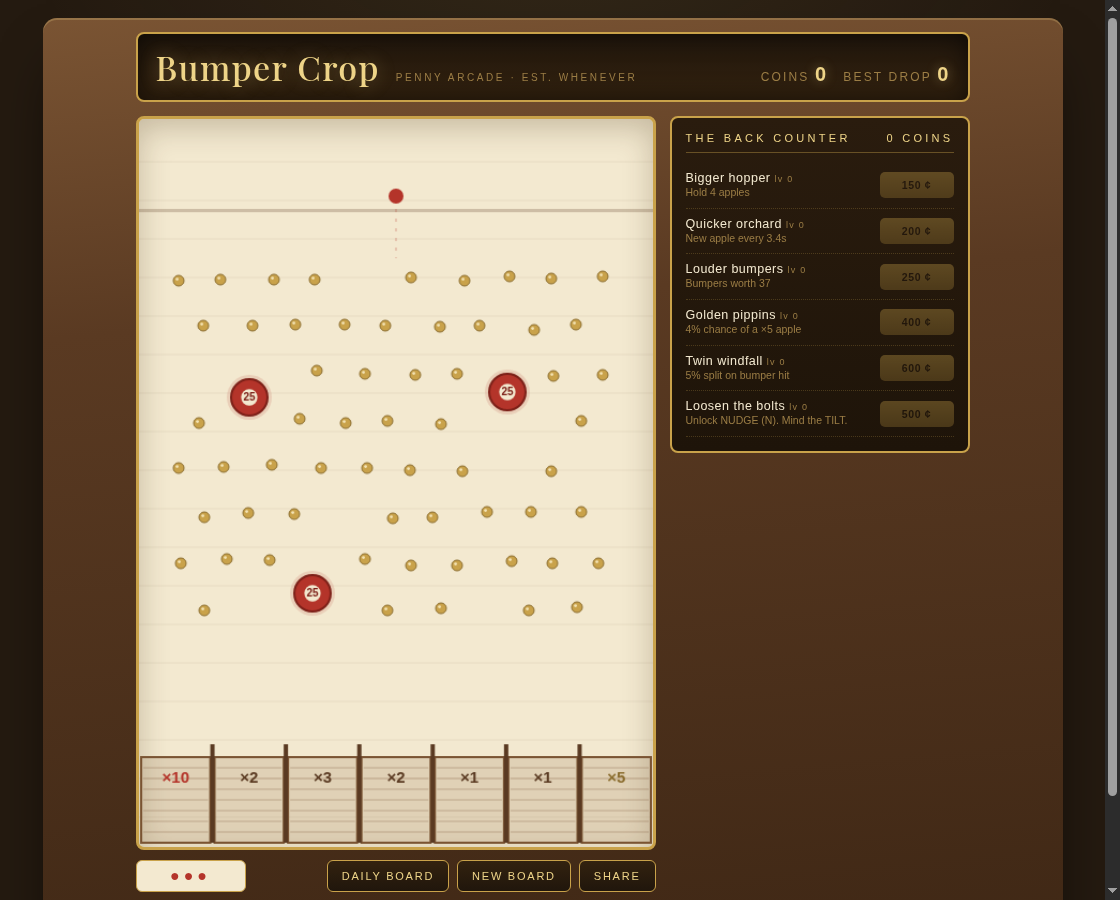
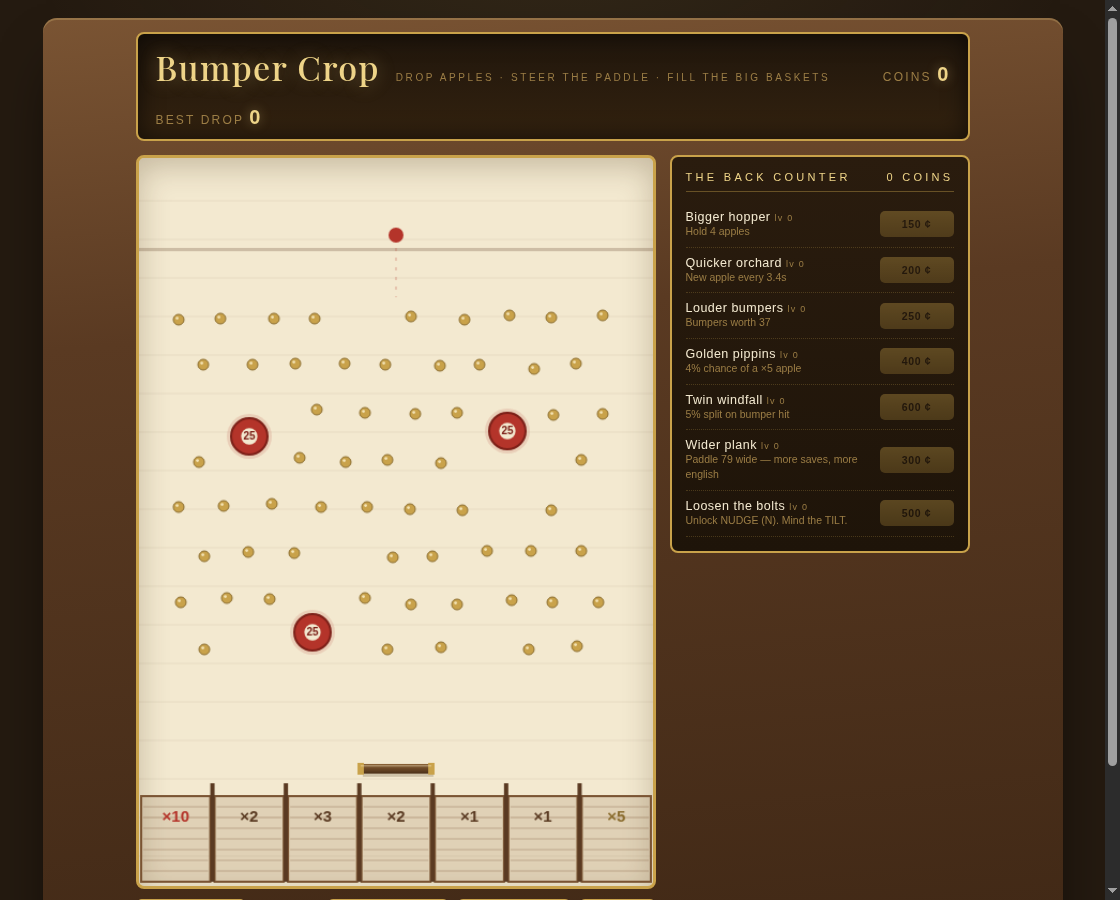
Add the paddle: mouse-tracked plank above the baskets
Bounce falling apples toward the basket you want; off-center hits add
english. Bounces lose energy and gentle balls roll through, so juggling
always ends (worst-case settle verified at 5s with the widest plank).
New shop upgrade: Wider plank.

diff --git a/index.html b/index.html
@@ -166,7 +166,7 @@
 <div class="cab" id="cab">
   <div class="marquee">
     <h1>Bumper Crop</h1>
-    <span class="tag">Penny Arcade · Est. Whenever</span>
+    <span class="tag">Drop apples · steer the paddle · fill the big baskets</span>
     <span class="spacer"></span>
     <span class="lcd">Coins <b id="lcd-coins">0</b></span>
     <span class="lcd">Best drop <b id="lcd-best">0</b></span>
@@ -320,8 +320,12 @@ function buildBoard(seed){
 /* ================= game state (global, persists across boards) ================= */
 const DEFAULT_SAVE = {
   coins: 0, best: 0, muted: false,
-  up: { hopper: 0, regen: 0, bumper: 0, gold: 0, split: 0, nudge: 0 }
+  up: { hopper: 0, regen: 0, bumper: 0, gold: 0, split: 0, nudge: 0, paddle: 0 }
 };
+/* the paddle: rides above the baskets, follows the mouse */
+const PAD_Y = 566, PAD_H = 9;
+let padX = W / 2;
+function padW(){ return 66 + 13 * S.up.paddle; }
 let S = null;      /* save */
 let balls = [];
 let hopper = 3;
@@ -362,6 +366,9 @@ function step(dt){
   }
   /* tilt heat cools */
   tiltHeat = Math.max(0, tiltHeat - dt * 0.28);
+
+  /* the paddle chases the mouse */
+  padX += (Math.max(BALL_R + 4, Math.min(W - BALL_R - 4, aimX)) - padX) * Math.min(1, dt * 18);
 
   for (const b of balls){
     if (b.dead) continue;
@@ -419,6 +426,18 @@ function step(dt){
         }
       }
     }
+    /* the paddle: catches falling apples, adds english toward its edges.
+       gentle balls roll through — no infinite tennis */
+    if (b.vy > 150 && !tilted() &&
+        b.y + BALL_R > PAD_Y && b.y < PAD_Y + PAD_H + BALL_R &&
+        Math.abs(b.x - padX) < padW() / 2 + BALL_R * 0.6){
+      b.y = PAD_Y - BALL_R;
+      b.vy = -b.vy * 0.82;
+      b.vx += ((b.x - padX) / (padW() / 2)) * 230;
+      b.vx = Math.max(-620, Math.min(620, b.vx));
+      SFX.peg();
+    }
+
     /* basket dividers: simple vertical walls from SLOT_TOP down */
     if (b.y > SLOT_TOP - BALL_R){
       const k = Math.round(b.x / SLOT_W);
@@ -558,6 +577,20 @@ function draw(){
   cx.fillStyle = '#5a3a22';
   for (let i = 1; i < SLOT_N; i++) cx.fillRect(i * SLOT_W - 2, SLOT_TOP - 12, 4, H - SLOT_TOP + 8);
 
+  /* the paddle: a polished plank with brass caps */
+  const pw = padW();
+  cx.fillStyle = 'rgba(60,40,10,.2)';
+  cx.fillRect(padX - pw / 2 + 2, PAD_Y + 3, pw, PAD_H);
+  const grad = cx.createLinearGradient(0, PAD_Y, 0, PAD_Y + PAD_H);
+  grad.addColorStop(0, '#8a6236'); grad.addColorStop(0.5, '#6b4826'); grad.addColorStop(1, '#4a3018');
+  cx.fillStyle = grad;
+  cx.fillRect(padX - pw / 2, PAD_Y, pw, PAD_H);
+  cx.fillStyle = '#c9a24a';
+  cx.fillRect(padX - pw / 2 - 3, PAD_Y - 1, 6, PAD_H + 2);
+  cx.fillRect(padX + pw / 2 - 3, PAD_Y - 1, 6, PAD_H + 2);
+  cx.fillStyle = 'rgba(255,240,210,.35)';
+  cx.fillRect(padX - pw / 2, PAD_Y + 1, pw, 1.5);
+
   /* balls: apples (or golden pippins) */
   for (const b of balls){
     cx.beginPath(); cx.arc(b.x, b.y + 2, BALL_R, 0, 7);
@@ -609,6 +642,7 @@ const SHOP = [
   { k: 'bumper', nm: 'Louder bumpers', ds: () => 'Bumpers worth ' + (25 + 12 * (S.up.bumper + 1)), base: 250, x: 1.7 },
   { k: 'gold', nm: 'Golden pippins', ds: () => (4 * (S.up.gold + 1)) + '% chance of a ×5 apple', base: 400, x: 1.8, max: 10 },
   { k: 'split', nm: 'Twin windfall', ds: () => (5 * (S.up.split + 1)) + '% split on bumper hit', base: 600, x: 1.9, max: 8 },
+  { k: 'paddle', nm: 'Wider plank', ds: () => 'Paddle ' + (66 + 13 * (S.up.paddle + 1)) + ' wide — more saves, more english', base: 300, x: 1.7, max: 6 },
   { k: 'nudge', nm: 'Loosen the bolts', ds: () => S.up.nudge ? 'Nudge is yours. Mind the TILT.' : 'Unlock NUDGE (N). Mind the TILT.', base: 500, x: 1, max: 1 }
 ];
 function cost(it){ return Math.round(it.base * Math.pow(it.x, S.up[it.k])); }

diff --git a/README.md b/README.md
@@ -10,10 +10,13 @@ offline, saves your coins and upgrades in the browser.
 ## The loop
 
 - Aim with the mouse (or ←/→), drop with click / tap / space
+- **The paddle follows your mouse** — after the drop, chase the apple and
+  bounce it toward the basket you want; hitting off-center adds english.
+  Gentle balls roll through, so juggling always ends in a basket
 - Pegs are worth a little, bumpers a lot; the basket multiplies the
   ball's whole haul (×1 to ×10)
 - Coins buy upgrades: bigger hopper, faster apples, louder bumpers,
-  golden pippins (×5 balls), twin windfall (splits), and — for the
+  golden pippins (×5 balls), twin windfall (splits), a wider plank, and — for the
   pinball faithful — **NUDGE**, which physically shoves every ball.
   Three nudges in quick succession and the machine **TILT**s: six
   seconds of dead bumpers and a locked hopper, exactly as tradition